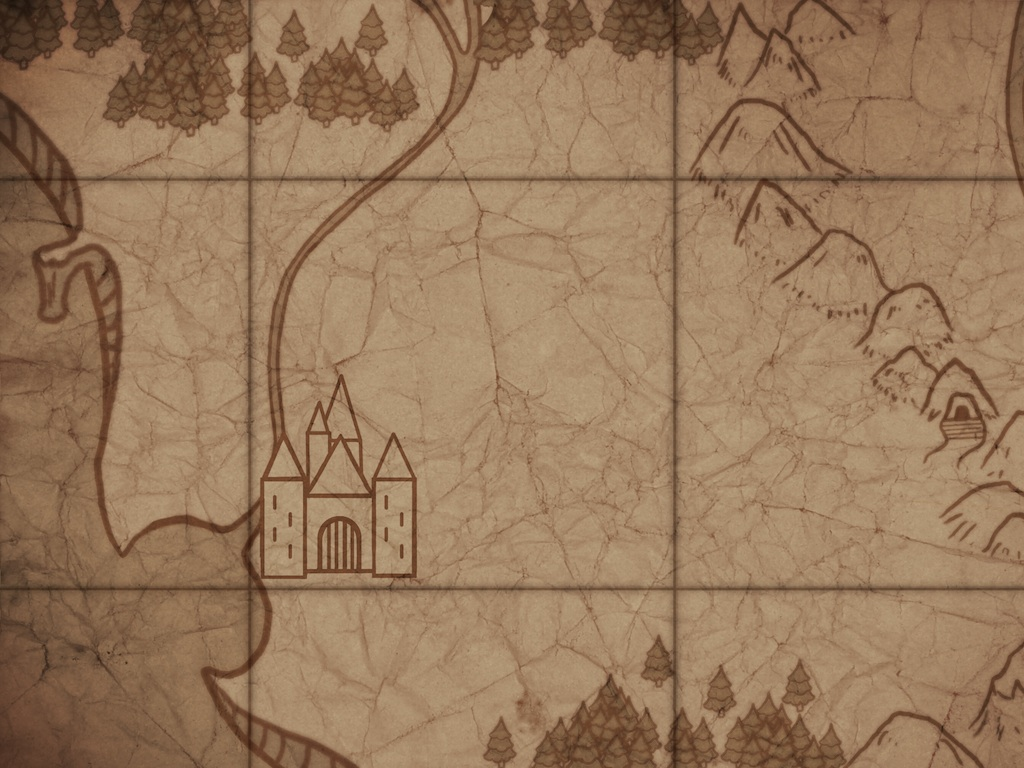
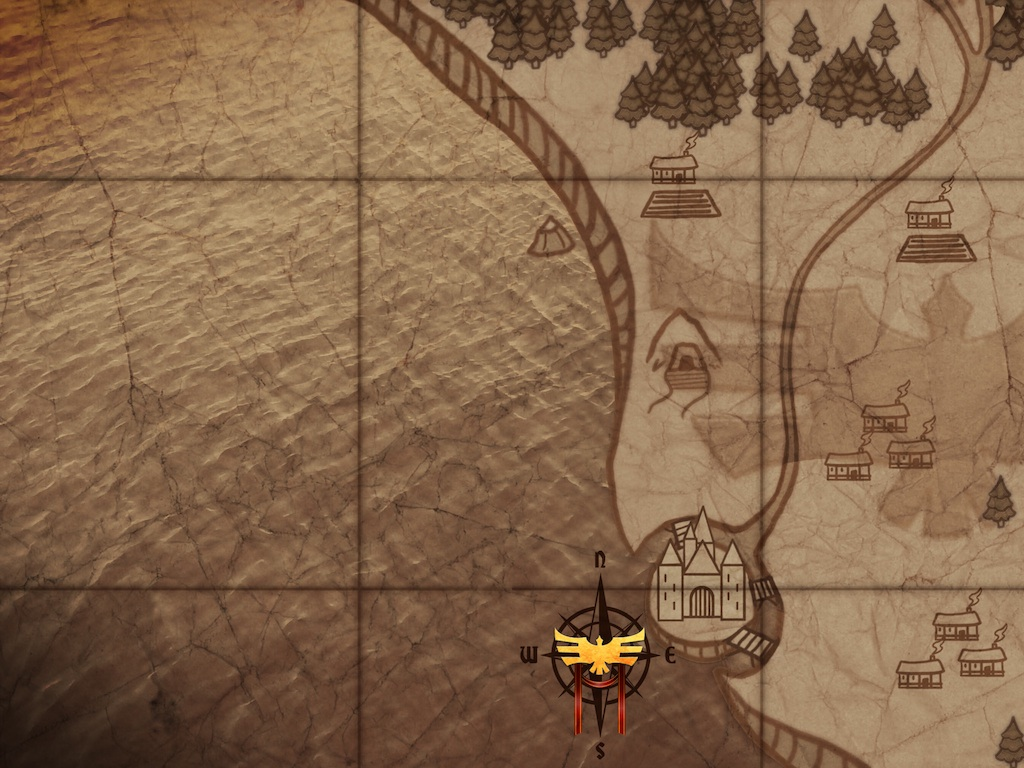
Redone map

diff --git a/Healer/LevelSelectSprite.m b/Healer/LevelSelectSprite.m
@@ -8,11 +8,15 @@
 
 #import "LevelSelectSprite.h"
 #import "PlayerDataManager.h"
+#import "Encounter.h"
+#import "WidthScalingBackgroundSprite.h"
 
 @interface LevelSelectSprite ()
 @property (nonatomic, assign) CCSprite *selectedRing;
 @property (nonatomic, assign) CCLabelTTF *scoreLabel;
 @property (nonatomic, assign) CCLabelTTF *scoreLabelShadow;
+@property (nonatomic, assign) CCLabelTTF *encounterNameLabel;
+@property (nonatomic, assign) WidthScalingBackgroundSprite *labelBackground;
 @end
 
 @implementation LevelSelectSprite
@@ -21,26 +25,24 @@
 {
     if (self = [super init]) {
         self.levelNum = levelNum;
-        self.scale = 1.5;
         
-//        NSInteger bestScore = [[PlayerDataManager localPlayer] scoreForLevel:self.levelNum];
+        CCSprite *bossIconSprite = [CCSprite spriteWithSpriteFrameName:[NSString stringWithFormat:@"boss-icon-%i.png", self.levelNum]];
+        CCSprite *bossIconSpriteSelected = [CCSprite spriteWithSpriteFrameName:[NSString stringWithFormat:@"boss-icon-%i.png", self.levelNum]];
+        [bossIconSpriteSelected setOpacity:122];
         
-        CCSprite *indicatorSprite = [CCSprite spriteWithSpriteFrameName:@"cross_blades.png"];        
-        CCSprite *indicatorSpriteSelected = [CCSprite spriteWithSpriteFrameName:@"cross_blades.png"];
-        [indicatorSpriteSelected setOpacity:122];
-        
-        CCMenuItemSprite *menuItem = [CCMenuItemSprite itemWithNormalSprite:indicatorSprite selectedSprite:indicatorSpriteSelected target:self selector:@selector(tapped)];
+        CCMenuItemSprite *menuItem = [CCMenuItemSprite itemWithNormalSprite:bossIconSprite selectedSprite:bossIconSpriteSelected target:self selector:@selector(tapped)];
         CCMenu *menu = [CCMenu menuWithItems:menuItem, nil];
-        [menu setPosition:CGPointZero];
         [self addChild:menu z:100];
+        [menu setScale:.6];
+        [menu setPosition:CGPointMake(-204, -150)];
         
         NSInteger rating = [[PlayerDataManager localPlayer] levelRatingForLevel:levelNum];
         if (rating > 0) {
             for (int i = 0; i < 5; i++) {
-                CGPoint skullPos = CGPointMake((i * 15) - 32, -25);
+                CGPoint skullPos = CGPointMake((i * 15) - 30, -44);
                 CCSprite *skullSprite = [CCSprite spriteWithSpriteFrameName:@"difficulty_skull.png"];
                 [skullSprite setPosition:skullPos];
-                [skullSprite setScale:.5];
+                [skullSprite setScale:.6];
                 [self addChild:skullSprite z:100];
                 
                 if ((i + 1) > rating) {
@@ -68,19 +70,46 @@
     [self setVisible:isAccessible];
 }
 
+- (void)onExit
+{
+    [super onExit];
+    [self.labelBackground removeFromParentAndCleanup:YES];
+}
+
 - (void)setSelected:(BOOL)isSelected
 {
     if (!self.isAccessible) return;
     if (isSelected) {
         if (!self.selectedRing) {
-            self.selectedRing = [CCSprite spriteWithSpriteFrameName:@"sel_ring.png"];
+            self.selectedRing = [CCSprite spriteWithSpriteFrameName:@"boss-icon-selected.png"];
+            [self.selectedRing setPosition:CGPointZero];
             [self addChild:self.selectedRing z:-5];
-            [self.selectedRing runAction:[CCRepeatForever actionWithAction:[CCSequence actions:[CCSpawn actions:[CCFadeOut actionWithDuration:1.5],[CCScaleTo actionWithDuration:1.5 scale:3.0], nil],[CCCallBlockN actionWithBlock:^(CCNode *node){ [node setScale:1.0];}], nil]]];
+            [self.selectedRing runAction:[CCRepeatForever actionWithAction:[CCSequence actions:[CCFadeTo actionWithDuration:1.0 opacity:120], [CCFadeTo actionWithDuration:1.0 opacity:255], nil]]];
         }
+        if (!self.labelBackground) {
+           
+            self.encounterNameLabel = [CCLabelTTF labelWithString:[Encounter encounterForLevel:self.levelNum isMultiplayer:NO].title fontName:@"TrebuchetMS-Bold" fontSize:24.0];
+            NSLog(@"%@-%@-%@",self.encounterNameLabel.string, self.encounterNameLabel.description, NSStringFromCGSize(self.encounterNameLabel.contentSize));
+            self.encounterNameLabel.horizontalAlignment = kCCTextAlignmentCenter;
+            self.encounterNameLabel.position = CGPointMake(self.encounterNameLabel.contentSize.width / 2, 0);
+            
+            self.labelBackground = [[[WidthScalingBackgroundSprite alloc] initWithSpritePrefix:@"boss-nameplate"] autorelease];
+            CGPoint worldPoint = [self convertToWorldSpace:CGPointMake(5, 80)];
+            [self.labelBackground setPosition:[self.parent convertToNodeSpace: worldPoint]];
+            [self.parent addChild:self.labelBackground z:500];
+            //Even numbered widths, for whatever reason, have strange opacity
+            [self.labelBackground setContentSize:CGSizeMake(self.encounterNameLabel.contentSize.width + 10 + !((int)self.encounterNameLabel.contentSize.width % 2), self.encounterNameLabel.contentSize.height)];
+            [self.labelBackground addChild:self.encounterNameLabel];
+
+        }else {
+            self.labelBackground.visible = YES;
+        }
+        
     } else {
         [self.selectedRing stopAllActions];
         [self.selectedRing removeFromParentAndCleanup:YES];
         self.selectedRing = nil;
+        self.labelBackground.visible = NO;
     }
 }
 

diff --git a/Healer/LevelSelectMapNode.m b/Healer/LevelSelectMapNode.m
@@ -40,7 +40,11 @@
         [map2 setPosition:CGPointMake(1024, 0)];
         [self addChild:map2];
         
-        CGSize mapSize = CGSizeMake(2048, 768);
+        BackgroundSprite *map3 = [[[BackgroundSprite alloc] initWithJPEGAssetName:@"map-level-3"] autorelease];
+        [map3 setPosition:CGPointMake(2048, 0)];
+        [self addChild:map3];
+        
+        CGSize mapSize = CGSizeMake(3072, 768);
         CCLayerColor *layerWithColor = [CCLayerColor layerWithColor:ccc4(200, 137, 83, 255)];
         [layerWithColor setContentSize:CGSizeMake(mapSize.width * 2, mapSize.height)];
         [self addChild:layerWithColor z:-100];
@@ -116,21 +120,47 @@
 {
     switch (levelNum) {
         case 1:
-            return CGPointMake(590, 635);
+            return CGPointMake(738, 614);
         case 2:
-            return CGPointMake(300, 516);
+            return CGPointMake(705, 490);
         case 3:
-            return CGPointMake(150, 480);
+            return CGPointMake(646, 368);
         case 4:
-            return CGPointMake(222, 330);
+            return CGPointMake(752, 266);
         case 5:
-            return CGPointMake(500, 250);
+            return CGPointMake(900, 192);
         case 6:
-            return CGPointMake(660, 270);
+            return CGPointMake(988, 124);
         case 7:
-            return CGPointMake(784, 300);
-//        case 8:
-//            return CGPointMake(1024 + 120, 680); //The fuck? These appear on the 2nd page
+            return CGPointMake(1096, 90);
+        case 8:
+            return CGPointMake(1232, 92);
+        case 9:
+            return CGPointMake(1310, 170);
+        case 10:
+            return CGPointMake(1396, 246);
+        case 11:
+            return CGPointMake(1500, 290);
+        case 12:
+            return CGPointMake(1554, 184);
+        case 13:
+            return CGPointMake(1606, 80);
+        case 14:
+            return CGPointMake(1850, 200);
+        case 15:
+            return CGPointMake(1992, 154);
+        case 16:
+            return CGPointMake(2132, 154);
+        case 17:
+            return CGPointMake(2276, 154);
+        case 18:
+            return CGPointMake(2356, 264);
+        case 19:
+            return CGPointMake(2406, 480);
+        case 20:
+            return CGPointMake(2430, 580);
+        case 21:
+            return CGPointMake(2468, 664);
         default:
             break;
     }

diff --git a/Healer/WidthScalingBackgroundSprite.m b/Healer/WidthScalingBackgroundSprite.m
@@ -1,0 +1,71 @@
+//
+//  WidthScalingBackgroundSprite.m
+//  Healer
+//
+//  Created by Ryan Hart on 3/28/13.
+//  Copyright (c) 2013 Apple. All rights reserved.
+//
+
+#import "WidthScalingBackgroundSprite.h"
+
+@interface WidthScalingBackgroundSprite ()
+@property (nonatomic, assign) CCSprite *leftPiece;
+@property (nonatomic, assign) CCSprite *rightPiece;
+@property (nonatomic, retain) NSMutableArray *middlePieces;
+@property (nonatomic, retain) NSString *prefix;
+@end
+
+@implementation WidthScalingBackgroundSprite
+
+- (void)dealloc
+{
+    [_middlePieces release];
+    [_prefix release];
+    [super dealloc];
+}
+
+- (id)initWithSpritePrefix:(NSString *)prefix
+{
+    if (self = [super init]) {
+        self.prefix = prefix;
+        self.middlePieces = [NSMutableArray arrayWithCapacity:200];
+        self.leftPiece = [CCSprite spriteWithSpriteFrameName:[NSString stringWithFormat:@"%@-left.png", self.prefix]];
+        self.rightPiece = [CCSprite spriteWithSpriteFrameName:[NSString stringWithFormat:@"%@-right.png", self.prefix]];
+        [self addChild:self.leftPiece];
+        [self addChild:self.rightPiece];
+    }
+    return self;
+}
+
+- (CCSprite *)midPiece
+{
+    return [CCSprite spriteWithSpriteFrameName:[NSString stringWithFormat:@"%@-mid.png", self.prefix]];
+}
+
+- (void)configureForContentSize
+{
+    CGPoint leftPoint = CGPointMake(0, 0);
+    CGPoint rightPoint = CGPointMake(self.contentSize.width - self.rightPiece.contentSize.width, 0);
+    
+    self.leftPiece.position = leftPoint;
+    self.rightPiece.position = rightPoint;
+    
+    for (CCSprite *midPiece in self.middlePieces) {
+        [midPiece removeFromParentAndCleanup:YES];
+    }
+    
+    NSInteger numSlivers = self.contentSize.width - self.leftPiece.contentSize.width;
+    for (int i = 0; i < numSlivers; i++){
+        CCSprite *midPiece = [self midPiece];
+        [midPiece setPosition:CGPointMake(i, 0)];
+        [self addChild:midPiece];
+        [self.middlePieces addObject:midPiece];
+    }
+}
+
+- (void)setContentSize:(CGSize)contentSize
+{
+    [super setContentSize:contentSize];
+    [self configureForContentSize];
+}
+@end

diff --git a/Healer/LevelSelectMapScene.m b/Healer/LevelSelectMapScene.m
@@ -22,6 +22,7 @@
 @property (assign) CCMenu *diffMenu;
 @property (nonatomic, assign) EncounterCard *encCard;
 @property (nonatomic, assign) BasicButton *battleButton;
+@property (nonatomic, readwrite) NSInteger selectedLevel;
 
 @end
 
@@ -35,6 +36,7 @@
 - (id)init
 {
     if (self = [super init]) {
+        [[CCSpriteFrameCache sharedSpriteFrameCache] addSpriteFramesWithFile:@"assets/mapicon.plist"];
         
         self.mapScrollView = [[[LevelSelectMapNode alloc] init] autorelease];
         [self.mapScrollView setLevelSelectDelegate:self];
@@ -43,10 +45,6 @@
         CCMenu *backButton = [BasicButton defaultBackButtonWithTarget:self andSelector:@selector(back)];
         [backButton setPosition:BACK_BUTTON_POS];
         [self addChild:backButton z:100];
-    
-        self.encCard = [[[EncounterCard alloc] initWithLevelNum:1] autorelease];
-        [self addChild:self.encCard z:5];
-        [self.encCard setPosition:CGPointMake(512, 100)];
         
         self.battleButton = [BasicButton basicButtonWithTarget:self andSelector:@selector(battle) andTitle:@"Continue"];
         CCMenu *battleMenu = [CCMenu menuWithItems:self.battleButton, nil];
@@ -66,7 +64,7 @@
 }
 
 - (void)battle {
-    NSInteger level = self.encCard.levelNum;
+    NSInteger level = self.selectedLevel;
     Encounter *encounter = [Encounter encounterForLevel:level isMultiplayer:NO];
     Player *basicPlayer = [PlayerDataManager playerFromLocalPlayer];
     [basicPlayer configureForRecommendedSpells:encounter.recommendedSpells withLastUsedSpells:[PlayerDataManager localPlayer].lastUsedSpells];
@@ -90,6 +88,7 @@
 
 - (void)levelSelectMapNodeDidSelectLevelNum:(NSInteger)levelNum
 {
+    self.selectedLevel = levelNum;
     [self loadEncounterCardForSelectedEncounter:levelNum];
 }
 

diff --git a/Healer/WidthScalingBackgroundSprite.h b/Healer/WidthScalingBackgroundSprite.h
@@ -1,0 +1,17 @@
+//
+//  WidthScalingBackgroundSprite.h
+//  Healer
+//
+//  Created by Ryan Hart on 3/28/13.
+//  Copyright (c) 2013 Apple. All rights reserved.
+//
+
+#import "cocos2d.h"
+
+@interface WidthScalingBackgroundSprite : CCSprite
+
+//Currently doesnt support changing the anchor point from .5,.5
+
+- (id)initWithSpritePrefix:(NSString *)prefix; //Example @"boss-nameplate".  Will append -left.png, -mid.png, and -right.png
+
+@end

diff --git a/Healer/DataObjects/Enemy.m b/Healer/DataObjects/Enemy.m
@@ -1240,6 +1240,7 @@
         [pestilenceDot setTitle:@"gatekeeper-pestilence"];
         
         RaidApplyEffect *openTheGates = [[[RaidApplyEffect alloc] init] autorelease];
+        [openTheGates setAttackParticleEffectName:nil];
         [openTheGates setKey:@"open-the-gates"];
         [openTheGates setTitle:@"Powers from Beyond"];
         [openTheGates setCooldown:kAbilityRequiresTrigger];

diff --git a/Healer/DataObjects/Encounter.m b/Healer/DataObjects/Encounter.m
@@ -503,7 +503,7 @@
         bossKey = @"avataroftorment";
         
         info = @"Torment will not be vanquished so easily.";
-        title = @"The Avatar of Torment";
+        title = @"The Avatar of Torment II";
     }
     
     if (level == 21){
